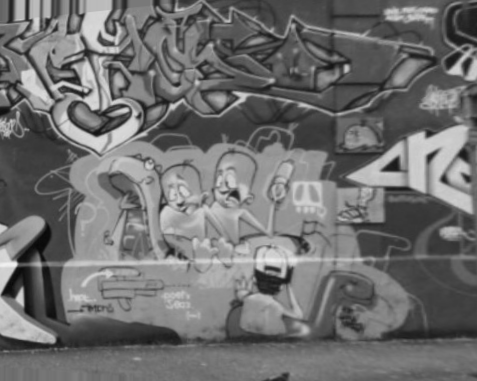
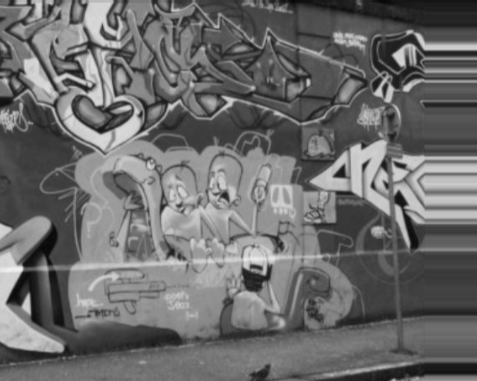
feat: add robust coarse-to-fine Gauss-Newton
- gauss_newton: direct intensity-based fit of the quadratic model on an
  image pyramid, with Huber then Tukey weights (sigma from MAD)
- dominant_motion: phase-correlation start, then translation, then full
  model

diff --git a/mod_3d.py b/mod_3d.py
@@ -7,38 +7,39 @@ from dataclasses import dataclass, field
 import cv2
 import numpy as np
 
+
 # -----------------------------------------------
 # Image Preprocessing
 # -----------------------------------------------
 def to_gray(img):
-    """float32 grayscale in [0, 1]"""
-    if img.ndim == 3:
-        img = cv2.cvtColor(img, cv2.COLOR_BGR2GRAY)
-    if img.dtype == np.uint8:
-        img = img.astype(np.float32) / 255.0
-    return img.astype(np.float32)
+  """float32 grayscale in [0, 1]"""
+  if img.ndim == 3:
+    img = cv2.cvtColor(img, cv2.COLOR_BGR2GRAY)
+  if img.dtype == np.uint8:
+    img = img.astype(np.float32) / 255.0
+  return img.astype(np.float32)
 
 def clean_mask(mask, open_px=3, close_px=7, min_area=40):
-    """Remove specks (opening), close small gaps, drop blobs smaller than min_area."""
-    m = mask.astype(np.uint8)
-    if open_px > 1:
-        m = cv2.morphologyEx(m, cv2.MORPH_OPEN,
-                             cv2.getStructuringElement(cv2.MORPH_ELLIPSE, (open_px,) * 2))
-    if close_px > 1:
-        m = cv2.morphologyEx(m, cv2.MORPH_CLOSE,
-                             cv2.getStructuringElement(cv2.MORPH_ELLIPSE, (close_px,) * 2))
-    n, lab, stats, _ = cv2.connectedComponentsWithStats(m, connectivity=8)
-    keep = np.zeros(n, bool)
-    keep[1:] = stats[1:, cv2.CC_STAT_AREA] >= min_area
-    return keep[lab]
+  """Remove specks (opening), close small gaps, drop blobs smaller than min_area."""
+  m = mask.astype(np.uint8)
+  if open_px > 1:
+    m = cv2.morphologyEx(m, cv2.MORPH_OPEN,
+                         cv2.getStructuringElement(cv2.MORPH_ELLIPSE, (open_px,) * 2))
+  if close_px > 1:
+    m = cv2.morphologyEx(m, cv2.MORPH_CLOSE,
+                         cv2.getStructuringElement(cv2.MORPH_ELLIPSE, (close_px,) * 2))
+  n, lab, stats, _ = cv2.connectedComponentsWithStats(m, connectivity=8)
+  keep = np.zeros(n, bool)
+  keep[1:] = stats[1:, cv2.CC_STAT_AREA] >= min_area
+  return keep[lab]
 
 def fill_holes(mask):
-    """Fill each blob's interior (an untextured object is only misaligned at its edges)."""
-    m = mask.astype(np.uint8)
-    cnts, _ = cv2.findContours(m, cv2.RETR_EXTERNAL, cv2.CHAIN_APPROX_SIMPLE)
-    out = np.zeros_like(m)
-    cv2.drawContours(out, cnts, -1, 1, thickness=cv2.FILLED)
-    return out > 0
+  """Fill each blob's interior (an untextured object is only misaligned at its edges)."""
+  m = mask.astype(np.uint8)
+  cnts, _ = cv2.findContours(m, cv2.RETR_EXTERNAL, cv2.CHAIN_APPROX_SIMPLE)
+  out = np.zeros_like(m)
+  cv2.drawContours(out, cnts, -1, 1, thickness=cv2.FILLED)
+  return out > 0
 
 # -----------------------------------------------
 # 8-parameter quadratic motion model
@@ -57,7 +58,7 @@ class CoordNorm:
   s: float
 
   @staticmethod
-  def for_shape(shape):
+  def from_shape(shape):
     h,w = shape[:2]
     return CoordNorm((w - 1) / 2.0, (h - 1) / 2.0, max(w, h) / 2.0)
 
@@ -93,11 +94,101 @@ def backward_warp(img, u, v):
   inside = (mx >= 0) & (mx <= w - 1) & (my >= 0) & (my <= h - 1)
   return out, inside
 
+
 def align_frame(other, theta, norm, shape=None, margin=8):
-    """'Align' of the description: bring `other` into the reference frame"""
-    shape = shape or other.shape[:2]
-    u, v = model_flow_field(theta, shape, norm)
-    warped, inside = backward_warp(to_gray(other), u, v)
-    if margin:
-        inside = cv2.erode(inside.astype(np.uint8), np.ones((2 * margin + 1,) * 2, np.uint8)) > 0
-    return warped, inside
+  """'Align' of the description: bring `other` into the reference frame"""
+  shape = shape or other.shape[:2]
+  u, v = model_flow_field(theta, shape, norm)
+  warped, inside = backward_warp(to_gray(other), u, v)
+  if margin:
+    inside = (
+      cv2.erode(inside.astype(np.uint8), np.ones((2 * margin + 1,) * 2, np.uint8)) > 0
+    )
+  return warped, inside
+
+# -----------------------------------------------
+# Direct Gauss-Newton estimation
+# -----------------------------------------------
+def _n_levels(shape, min_size=24, max_levels=5):
+  """Number of pyramid levels for Gauss-Newton"""
+  n, m = 0, min(shape[:2])
+  while m / 2 ** (n + 1) >= min_size and n < max_levels:
+    n += 1
+  return n
+
+def gauss_newton(ref, other, theta0=None, model="quadratic", mask=None, norm=None,
+                 origin_xy=(0,0), levels=None, iters=15, init_translation=True):
+  """θ such that other(x + flow(x; θ)) ~= ref(x) on mask. origin_xy = (x0, y0) = (column, row) of the crop s top-left pixel."""
+  ref, other = to_gray(ref), to_gray(other)
+  norm = norm or CoordNorm.from_shape(ref.shape)
+  theta = np.zeros(8) if theta0 is None else np.array(theta0, np.float64).copy()
+  if init_translation and model != "translation":
+    theta = gauss_newton(ref, other, theta, "translation", mask, norm, origin_xy, levels, iters, False)
+  idx = MODEL_INDICIES[model]
+  if levels is None:
+    levels = _n_levels(ref.shape)
+  # image pyramid (mask pyramid)
+  pr, po = [ref], [other]
+  for _ in range(levels):
+    pr.append(cv2.pyrDown(pr[-1]))
+    po.append(cv2.pyrDown(po[-1]))
+  pm = None
+  if mask is not None:
+    pm = [mask.astype(np.float32)]
+    for l in range(1, levels + 1):
+      pm.append(cv2.resize(pm[-1], (pr[l].shape[1], pr[l].shape[0]),
+        interpolation=cv2.INTER_LINEAR
+      ))
+  for lvl in range(levels, -1, -1): # coarse -> fine
+    sc = float(2 ** lvl)
+    R, O = pr[lvl], po[lvl]
+    h, w = R.shape
+    gx = cv2.Sobel(O, cv2.CV_32F, 1, 0, ksize=3) / 8.0
+    gy = cv2.Sobel(O, cv2.CV_32F, 0, 1, ksize=3) / 8.0
+    ys, xs = np.mgrid[0:h, 0:w].astype(np.float32)
+    xn = (xs * sc + origin_xy[0] - norm.cx) / norm.s  # full-image coords
+    yn = (ys * sc + origin_xy[1] - norm.cy) / norm.s
+    bu, bv = _flow_jacobian(xn.astype(np.float64), yn.astype(np.float64))
+    sel = np.zeros((h, w), bool) if pm is None else pm[lvl] > 0.5
+    sel[:1, :] = sel[-1:, :] = False
+    sel[:, :1] = sel[:, -1:] = False
+    if sel.sum() < 4 * len(idx): continue
+    for it in range(iters):
+      u = (bu @ theta) / sc # flow at this level
+      v = (bv @ theta) / sc
+      mx, my = (xs + u).astype(np.float32), (ys + v).astype(np.float32)
+      Iw  = cv2.remap(O, mx, my, cv2.INTER_LINEAR, borderMode=cv2.BORDER_REPLICATE)
+      gxw = cv2.remap(gx, mx, my, cv2.INTER_LINEAR, borderMode=cv2.BORDER_REPLICATE)
+      gyw = cv2.remap(gy, mx, my, cv2.INTER_LINEAR, borderMode=cv2.BORDER_REPLICATE)
+      act = sel & (mx >= 0) & (mx <= w - 1) & (my >= 0) & (my <= h - 1)
+      if act.sum() < 4 * len(idx): break
+      e = (Iw - R)[act].astype(np.float64)
+      J = (gxw[act][:, None] * bu[act][:, idx] + gyw[act][:, None] * bv[act][:, idx]) / sc
+      sigma = max(1.4826 * np.median(np.abs(e)), 2e-3)
+      if it < 3 or lvl == levels:
+        c = 1.345 * sigma
+        wgt = np.minimum(1.0, c / np.maximum(np.abs(e), 1e-12))
+      else:
+        c = 4.685 * sigma
+        r = np.abs(e) / c
+        wgt = np.where(r < 1, (1 - r * r) ** 2, 0.0)
+      Jw = J * wgt[:, None]
+      A = Jw.T @ J
+      A += np.eye(len(idx)) * (1e-9 + 1e-6 * np.trace(A) / len(idx))
+      delta = np.linalg.solve(A, -Jw.T @ e)
+      theta[idx] += delta
+      if np.max(np.abs(delta)) < 1e-3 * sc: break
+  return theta
+
+def correlation_shift(ref, other):
+  a, b = to_gray(ref), to_gray(other)
+  win = cv2.createHanningWindow((a.shape[1], a.shape[0]), cv2.CV_32F)
+  (dx, dy), _ = cv2.phaseCorrelate(a, b, win)
+  return dx, dy
+
+def dominant_motion(ref, other, norm=None):
+ """Pseudocode step 1-2: dominant quadratic motion ref -> other"""
+ norm = norm or CoordNorm.from_shape(ref.shape)
+ dx, dy = correlation_shift(ref, other)
+ theta0 = np.array([dx, 0, 0, dy, 0, 0, 0, 0], np.float64)
+ return gauss_newton(ref, other, theta0, "quadratic", norm=norm)
